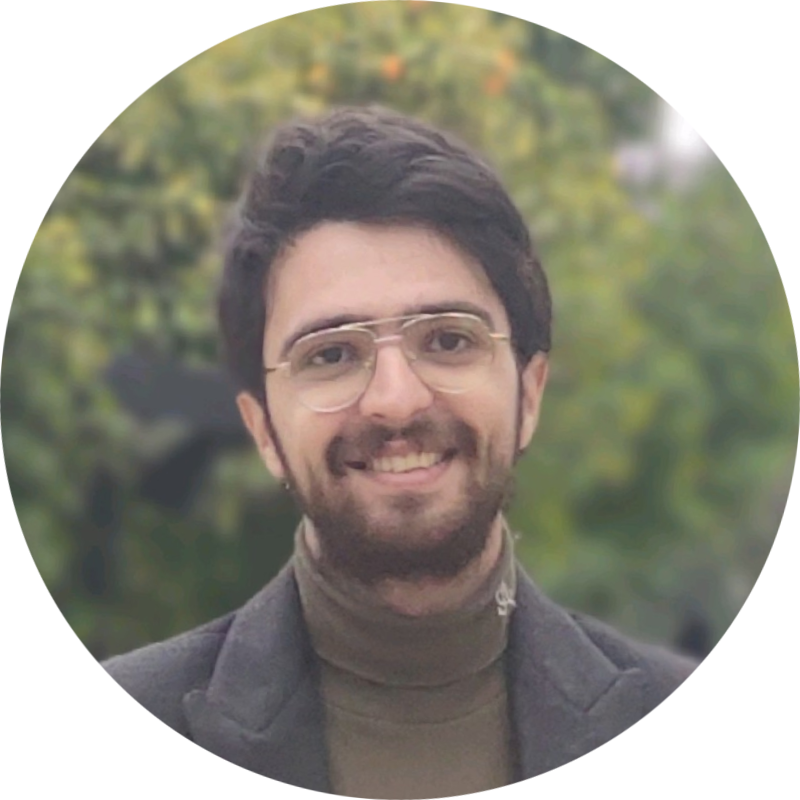
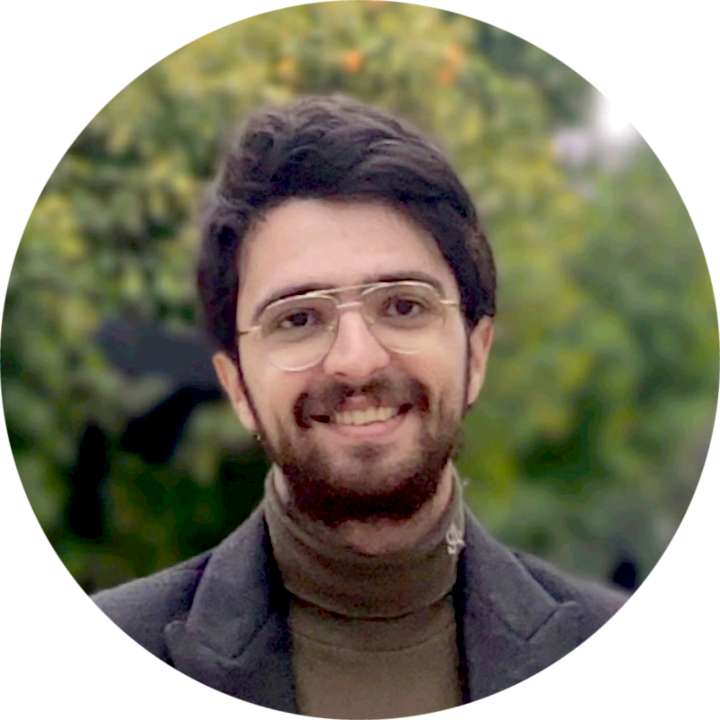
2025-09-07 21:59:33

diff --git a/docs/camps/product-design-1/index.html b/docs/camps/product-design-1/index.html
@@ -296,7 +296,7 @@
             <a class="card videos-community w-inline-block" href="https://linkedin.com/company/thetopdogsdesign">
             <div class="split-content videos-community-left">
               <div class="icon-videos-community-wrapper">
-              <img alt="teacher" src="https://new.wecamp.pro/img/camps/design-1404/TopDogs3.png"/>
+              <img alt="teacher" src="https://new.wecamp.pro/img/camps/design-1404/TopDogs.png"/>
               </div>
               <div>
               <h3 class="title videos-community-card">

diff --git a/layouts/camps/product-design-1.html b/layouts/camps/product-design-1.html
@@ -180,7 +180,7 @@
             <a class="card videos-community w-inline-block" href="https://linkedin.com/company/thetopdogsdesign">
             <div class="split-content videos-community-left">
               <div class="icon-videos-community-wrapper">
-              <img alt="teacher" src="/img/camps/design-1404/TopDogs3.png"/>
+              <img alt="teacher" src="/img/camps/design-1404/TopDogs.png"/>
               </div>
               <div>
               <h3 class="title videos-community-card">
